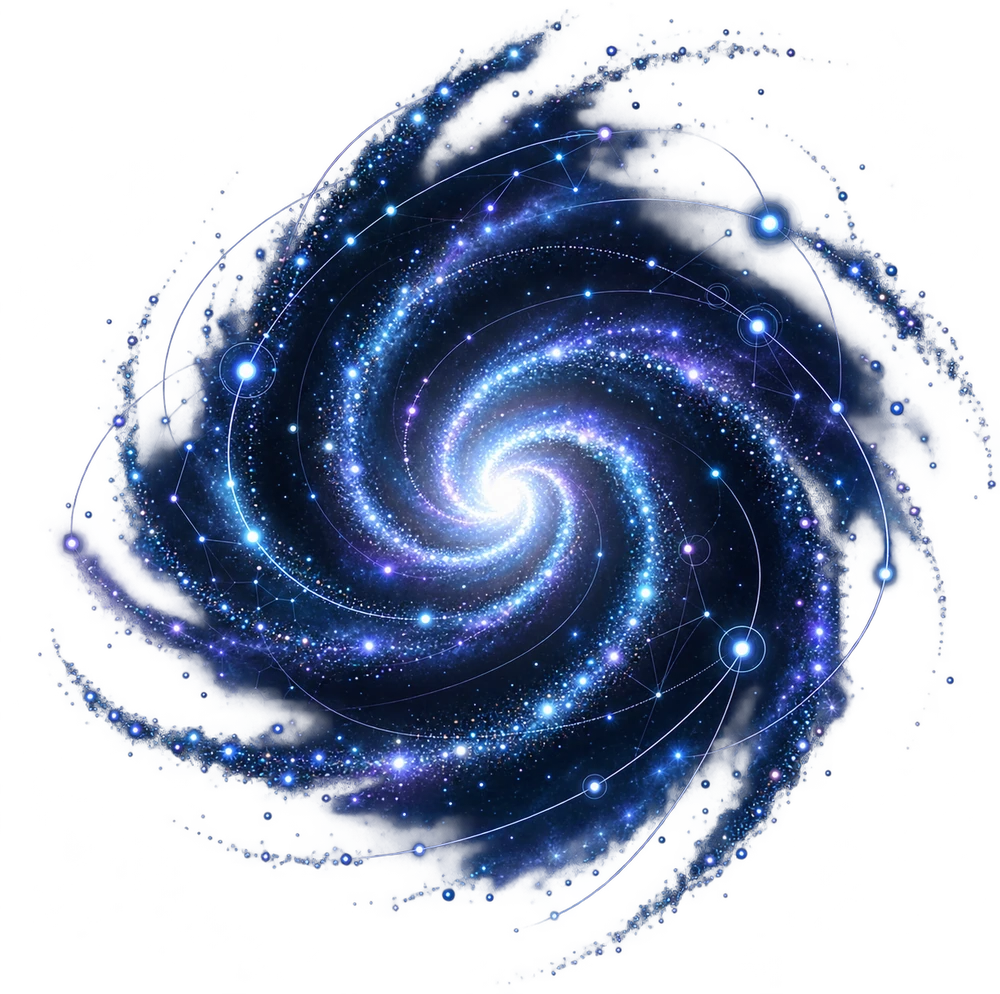
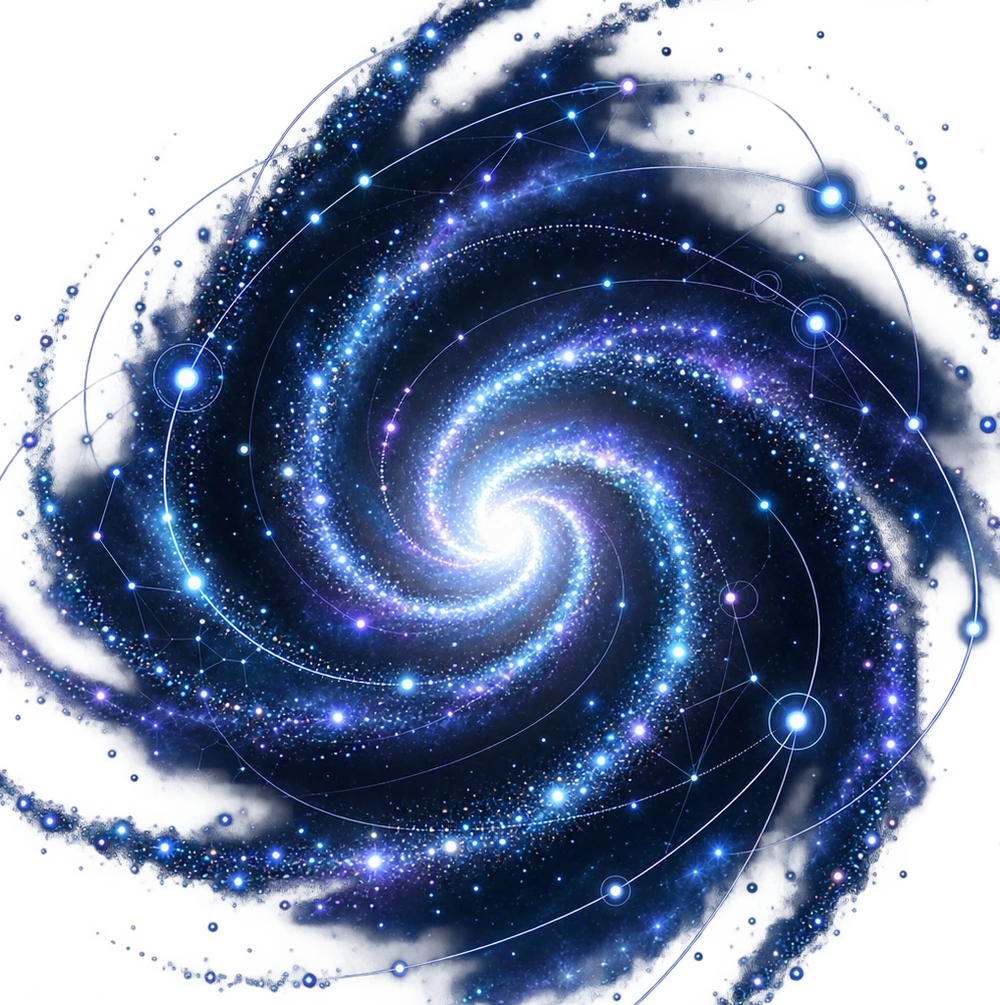
Crop the galaxy tight to its content so it sits against the headline
The remaining distance wasn't only layout: the galaxy is a circular
subject on a square canvas, and measuring the image's light distribution
showed ~95px of near-empty margin on its left edge (9.5% of width, ~49px
at display size) sitting on top of the ~44px column gap. The perceived
gap was therefore roughly double the measured one.

Re-cropped from the original source to the bounding box holding 99% of
the image's luminance, which removes the dead margin on all four sides;
the galaxy now starts at column 0 of its box and renders ~23% larger
within the same width. Also tightened the column gap to
clamp(16px, 2.2vw, 32px).

Measured perceived gap (headline text to first bright pixel): 1568px
~93px -> 42px; 950px 81px. Image top still aligned to the headline, 26px
under the headline, no overlap with the copy or the evidence strip, no
horizontal scroll, mobile unaffected.

diff --git a/index.html b/index.html
@@ -32,7 +32,7 @@
       <h1 class="statement">I build systems, study how they <em>fail</em>, and engineer ways to make them safer.</h1>
 
       <div class="hero-mark" aria-hidden="true">
-        <img src="assets/images/hero-galaxy-core.webp" alt="" width="1000" height="994">
+        <img src="assets/images/hero-galaxy-core.webp" alt="" width="1000" height="1005">
       </div>
 
       <p class="lede">My work combines applied security research, systems engineering, telemetry-driven detection and human-centred experimentation, with particular experience investigating security challenges in immersive and emerging technologies.</p>

diff --git a/styles.css b/styles.css
@@ -179,7 +179,7 @@ p.section-lede{
   grid-template-columns:minmax(0,auto) auto;
   grid-template-rows:auto auto auto auto auto;
   justify-content:start;
-  column-gap:clamp(20px,3vw,44px);
+  column-gap:clamp(16px,2.2vw,32px);
 }
 /* The eyebrow is a full-width label line — spanning both columns keeps it
    on one line and stops it from widening the copy column, so the image can
